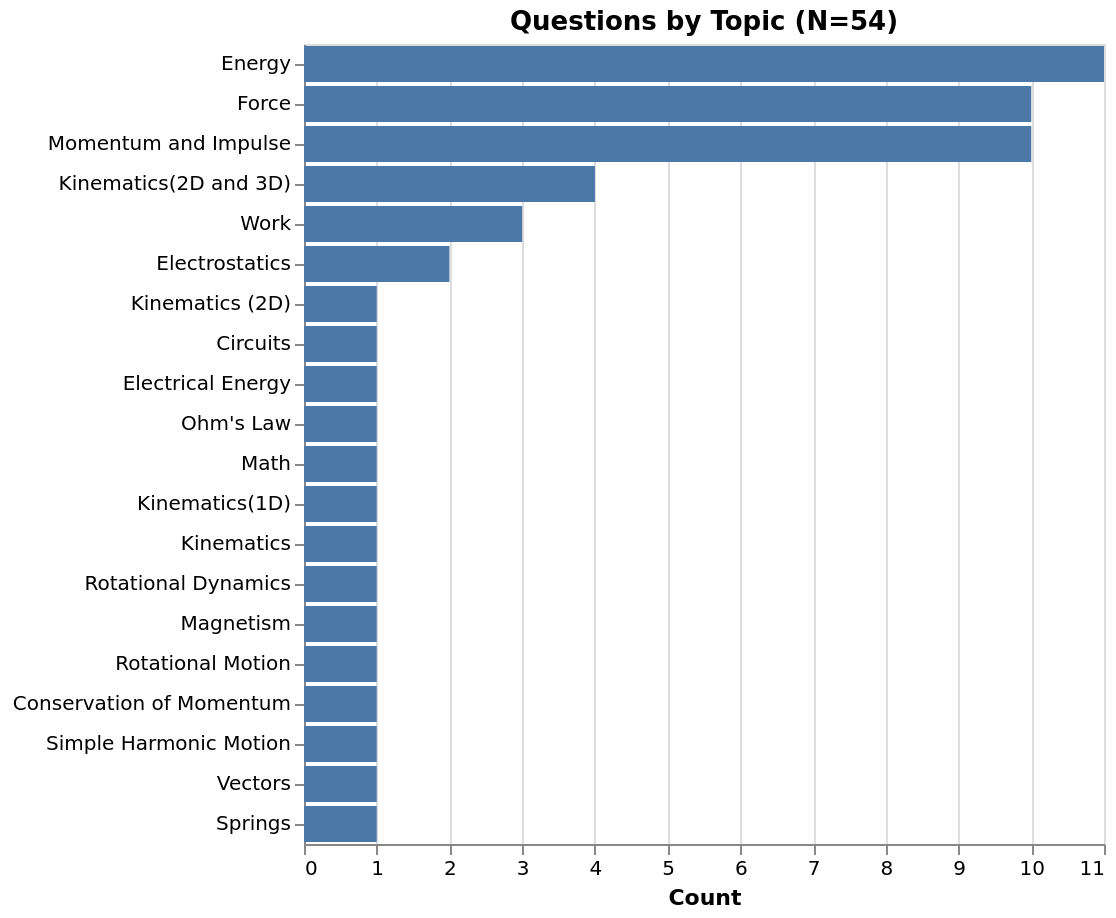
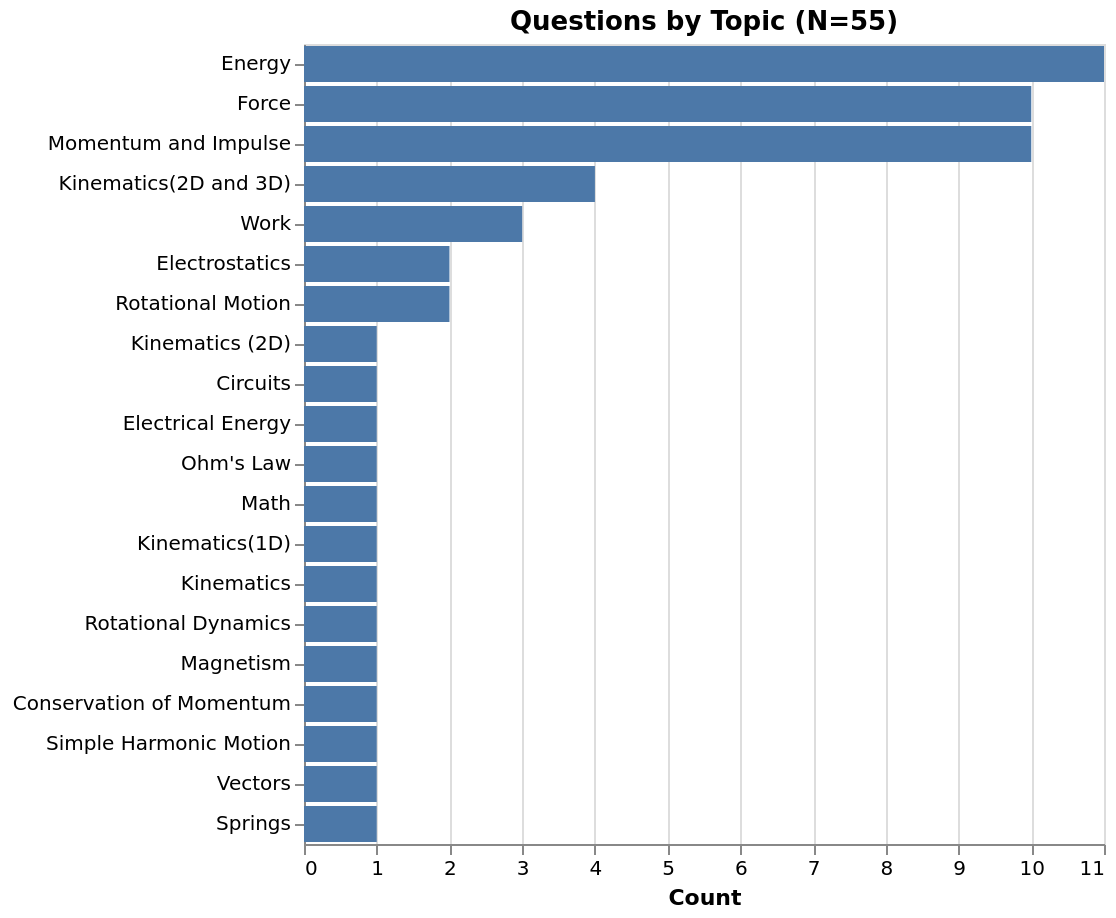
Update TOC via GH Action

diff --git a/content/index.md b/content/index.md
@@ -1,0 +1,60 @@
+# Question Index 
+ 
+ 
+ | Question | Public HTML | Public MD | Instructor MD | PL |
+| --------- | --------- | --------- | --------- | --------- |
+1 |  [Q 1](https://firas.moosvi.com/oer/physicsbank/content/content/public/009.Work/Work/force_and_displacement/force_and_displacement.html)| [Q 1](https://github.com/open-resources/physics_bank/blob/main/content/content/public/009.Work/Work/force_and_displacement/force_and_displacement.md) | [Q 1](https://github.com/open-resources/instructor_physics_bank/blob/main/output/content/instructor/009.Work/Work/force_and_displacement/force_and_displacement.md) | [TBD]() | 
+2 |  [Q 2](https://firas.moosvi.com/oer/physicsbank/content/content/public/009.Work/Power/Energy%20Expenditure/Energy%20Expenditure.html)| [Q 2](https://github.com/open-resources/physics_bank/blob/main/content/content/public/009.Work/Power/Energy%20Expenditure/Energy%20Expenditure.md) | [Q 2](https://github.com/open-resources/instructor_physics_bank/blob/main/output/content/instructor/009.Work/Power/Energy%20Expenditure/Energy%20Expenditure.md) | [TBD]() | 
+3 |  [Q 3](https://firas.moosvi.com/oer/physicsbank/content/content/public/009.Work/Work-Energy%20Theorem/work_frictionless_surface/work_frictionless_surface.html)| [Q 3](https://github.com/open-resources/physics_bank/blob/main/content/content/public/009.Work/Work-Energy%20Theorem/work_frictionless_surface/work_frictionless_surface.md) | [Q 3](https://github.com/open-resources/instructor_physics_bank/blob/main/output/content/instructor/009.Work/Work-Energy%20Theorem/work_frictionless_surface/work_frictionless_surface.md) | [TBD]() | 
+4 |  [Q 4](https://firas.moosvi.com/oer/physicsbank/content/content/public/005.Kinematics%282D%20and%203D%29/Uniform%20Circular%20Motion/centripetal_force/centripetal_force.html)| [Q 4](https://github.com/open-resources/physics_bank/blob/main/content/content/public/005.Kinematics%282D%20and%203D%29/Uniform%20Circular%20Motion/centripetal_force/centripetal_force.md) | [Q 4](https://github.com/open-resources/instructor_physics_bank/blob/main/output/content/instructor/005.Kinematics%282D%20and%203D%29/Uniform%20Circular%20Motion/centripetal_force/centripetal_force.md) | [TBD]() | 
+5 |  [Q 5](https://firas.moosvi.com/oer/physicsbank/content/content/public/005.Kinematics%282D%20and%203D%29/Uniform%20Circular%20Motion/angular_speed/angular_speed.html)| [Q 5](https://github.com/open-resources/physics_bank/blob/main/content/content/public/005.Kinematics%282D%20and%203D%29/Uniform%20Circular%20Motion/angular_speed/angular_speed.md) | [Q 5](https://github.com/open-resources/instructor_physics_bank/blob/main/output/content/instructor/005.Kinematics%282D%20and%203D%29/Uniform%20Circular%20Motion/angular_speed/angular_speed.md) | [TBD]() | 
+6 |  [Q 6](https://firas.moosvi.com/oer/physicsbank/content/content/public/005.Kinematics%282D%20and%203D%29/Non-Uniform%20Circular%20Motion/Acceleration%20around%20a%20turn/Acceleration%20around%20a%20turn.html)| [Q 6](https://github.com/open-resources/physics_bank/blob/main/content/content/public/005.Kinematics%282D%20and%203D%29/Non-Uniform%20Circular%20Motion/Acceleration%20around%20a%20turn/Acceleration%20around%20a%20turn.md) | [Q 6](https://github.com/open-resources/instructor_physics_bank/blob/main/output/content/instructor/005.Kinematics%282D%20and%203D%29/Non-Uniform%20Circular%20Motion/Acceleration%20around%20a%20turn/Acceleration%20around%20a%20turn.md) | [TBD]() | 
+7 |  [Q 7](https://firas.moosvi.com/oer/physicsbank/content/content/public/005.Kinematics%282D%20and%203D%29/Non-Uniform%20Circular%20Motion/Turning_Car/Turning_car.html)| [Q 7](https://github.com/open-resources/physics_bank/blob/main/content/content/public/005.Kinematics%282D%20and%203D%29/Non-Uniform%20Circular%20Motion/Turning_Car/Turning_car.md) | [Q 7](https://github.com/open-resources/instructor_physics_bank/blob/main/output/content/instructor/005.Kinematics%282D%20and%203D%29/Non-Uniform%20Circular%20Motion/Turning_Car/Turning_car.md) | [TBD]() | 
+8 |  [Q 8](https://firas.moosvi.com/oer/physicsbank/content/content/public/005.Kinematics%282D%20and%203D%29/Projectile%20Motion/ski_jump/ski_jump.html)| [Q 8](https://github.com/open-resources/physics_bank/blob/main/content/content/public/005.Kinematics%282D%20and%203D%29/Projectile%20Motion/ski_jump/ski_jump.md) | [Q 8](https://github.com/open-resources/instructor_physics_bank/blob/main/output/content/instructor/005.Kinematics%282D%20and%203D%29/Projectile%20Motion/ski_jump/ski_jump.md) | [TBD]() | 
+9 |  [Q 9](https://firas.moosvi.com/oer/physicsbank/content/content/public/006.Force/Topic%20Outcome/The%20max%20acceleration%20without%20slipping/The%20max%20acceleration%20without%20slipping.html)| [Q 9](https://github.com/open-resources/physics_bank/blob/main/content/content/public/006.Force/Topic%20Outcome/The%20max%20acceleration%20without%20slipping/The%20max%20acceleration%20without%20slipping.md) | [Q 9](https://github.com/open-resources/instructor_physics_bank/blob/main/output/content/instructor/006.Force/Topic%20Outcome/The%20max%20acceleration%20without%20slipping/The%20max%20acceleration%20without%20slipping.md) | [TBD]() | 
+10 |  [Q 10](https://firas.moosvi.com/oer/physicsbank/content/content/public/006.Force/Topic%20Outcome/Elevator%20Movement%20Direction/Elevator%20Movement%20Direction.html)| [Q 10](https://github.com/open-resources/physics_bank/blob/main/content/content/public/006.Force/Topic%20Outcome/Elevator%20Movement%20Direction/Elevator%20Movement%20Direction.md) | [Q 10](https://github.com/open-resources/instructor_physics_bank/blob/main/output/content/instructor/006.Force/Topic%20Outcome/Elevator%20Movement%20Direction/Elevator%20Movement%20Direction.md) | [TBD]() | 
+11 |  [Q 11](https://firas.moosvi.com/oer/physicsbank/content/content/public/006.Force/Topic%20Outcome/velocity_netforce/velocity_netforce.html)| [Q 11](https://github.com/open-resources/physics_bank/blob/main/content/content/public/006.Force/Topic%20Outcome/velocity_netforce/velocity_netforce.md) | [Q 11](https://github.com/open-resources/instructor_physics_bank/blob/main/output/content/instructor/006.Force/Topic%20Outcome/velocity_netforce/velocity_netforce.md) | [TBD]() | 
+12 |  [Q 12](https://firas.moosvi.com/oer/physicsbank/content/content/public/006.Force/Topic%20Outcome/ropes_and_blocks/ropes_and_blocks.html)| [Q 12](https://github.com/open-resources/physics_bank/blob/main/content/content/public/006.Force/Topic%20Outcome/ropes_and_blocks/ropes_and_blocks.md) | [Q 12](https://github.com/open-resources/instructor_physics_bank/blob/main/output/content/instructor/006.Force/Topic%20Outcome/ropes_and_blocks/ropes_and_blocks.md) | [TBD]() | 
+13 |  [Q 13](https://firas.moosvi.com/oer/physicsbank/content/content/public/006.Force/Topic%20Outcome/spring_on_incline/spring_on_incline.html)| [Q 13](https://github.com/open-resources/physics_bank/blob/main/content/content/public/006.Force/Topic%20Outcome/spring_on_incline/spring_on_incline.md) | [Q 13](https://github.com/open-resources/instructor_physics_bank/blob/main/output/content/instructor/006.Force/Topic%20Outcome/spring_on_incline/spring_on_incline.md) | [TBD]() | 
+14 |  [Q 14](https://firas.moosvi.com/oer/physicsbank/content/content/public/006.Force/Topic%20Outcome/Rotating%20ball/Rotating%20ball.html)| [Q 14](https://github.com/open-resources/physics_bank/blob/main/content/content/public/006.Force/Topic%20Outcome/Rotating%20ball/Rotating%20ball.md) | [Q 14](https://github.com/open-resources/instructor_physics_bank/blob/main/output/content/instructor/006.Force/Topic%20Outcome/Rotating%20ball/Rotating%20ball.md) | [TBD]() | 
+15 |  [Q 15](https://firas.moosvi.com/oer/physicsbank/content/content/public/006.Force/Equilibrium/Two%20blocks%20connected%20by%20a%20string/Two%20Blocks%20Connected%20by%20a%20String.html)| [Q 15](https://github.com/open-resources/physics_bank/blob/main/content/content/public/006.Force/Equilibrium/Two%20blocks%20connected%20by%20a%20string/Two%20Blocks%20Connected%20by%20a%20String.md) | [Q 15](https://github.com/open-resources/instructor_physics_bank/blob/main/output/content/instructor/006.Force/Equilibrium/Two%20blocks%20connected%20by%20a%20string/Two%20Blocks%20Connected%20by%20a%20String.md) | [TBD]() | 
+16 |  [Q 16](https://firas.moosvi.com/oer/physicsbank/content/content/public/006.Force/Dynamics%20of%20Circular%20Motion/object_on_string/object_on_string.html)| [Q 16](https://github.com/open-resources/physics_bank/blob/main/content/content/public/006.Force/Dynamics%20of%20Circular%20Motion/object_on_string/object_on_string.md) | [Q 16](https://github.com/open-resources/instructor_physics_bank/blob/main/output/content/instructor/006.Force/Dynamics%20of%20Circular%20Motion/object_on_string/object_on_string.md) | [TBD]() | 
+17 |  [Q 17](https://firas.moosvi.com/oer/physicsbank/content/content/public/006.Force/Friction/Frictional%20Force%20between%20tires%20and%20road/Frictional%20Force%20between%20tires%20and%20road.html)| [Q 17](https://github.com/open-resources/physics_bank/blob/main/content/content/public/006.Force/Friction/Frictional%20Force%20between%20tires%20and%20road/Frictional%20Force%20between%20tires%20and%20road.md) | [Q 17](https://github.com/open-resources/instructor_physics_bank/blob/main/output/content/instructor/006.Force/Friction/Frictional%20Force%20between%20tires%20and%20road/Frictional%20Force%20between%20tires%20and%20road.md) | [TBD]() | 
+18 |  [Q 18](https://firas.moosvi.com/oer/physicsbank/content/content/public/006.Force/Springs/Bungee_jumping/bungee_jumping.html)| [Q 18](https://github.com/open-resources/physics_bank/blob/main/content/content/public/006.Force/Springs/Bungee_jumping/bungee_jumping.md) | [Q 18](https://github.com/open-resources/instructor_physics_bank/blob/main/output/content/instructor/006.Force/Springs/Bungee_jumping/bungee_jumping.md) | [TBD]() | 
+19 |  [Q 19](https://firas.moosvi.com/oer/physicsbank/content/content/public/006.Force/Newton%27s%20Third%20Law/Force%20Vectors/force_vectors.html)| [Q 19](https://github.com/open-resources/physics_bank/blob/main/content/content/public/006.Force/Newton%27s%20Third%20Law/Force%20Vectors/force_vectors.md) | [Q 19](https://github.com/open-resources/instructor_physics_bank/blob/main/output/content/instructor/006.Force/Newton%27s%20Third%20Law/Force%20Vectors/force_vectors.md) | [TBD]() | 
+20 |  [Q 20](https://firas.moosvi.com/oer/physicsbank/content/content/public/021.Circuits/RC%20Circuits/OSUPv2p10_16/OSUPv2p10_16.html)| [Q 20](https://github.com/open-resources/physics_bank/blob/main/content/content/public/021.Circuits/RC%20Circuits/OSUPv2p10_16/OSUPv2p10_16.md) | [Q 20](https://github.com/open-resources/instructor_physics_bank/blob/main/output/content/instructor/021.Circuits/RC%20Circuits/OSUPv2p10_16/OSUPv2p10_16.md) | [TBD]() | 
+21 |  [Q 21](https://firas.moosvi.com/oer/physicsbank/content/content/public/021.Circuits/Current/OSUPv2.9.2/OSUPv2.9.2.html)| [Q 21](https://github.com/open-resources/physics_bank/blob/main/content/content/public/021.Circuits/Current/OSUPv2.9.2/OSUPv2.9.2.md) | [Q 21](https://github.com/open-resources/instructor_physics_bank/blob/main/output/content/instructor/021.Circuits/Current/OSUPv2.9.2/OSUPv2.9.2.md) | [TBD]() | 
+22 |  [Q 22](https://firas.moosvi.com/oer/physicsbank/content/content/public/021.Circuits/Electrical%20Energy/OSUPv2.9.16/OSUPv2.9.16.html)| [Q 22](https://github.com/open-resources/physics_bank/blob/main/content/content/public/021.Circuits/Electrical%20Energy/OSUPv2.9.16/OSUPv2.9.16.md) | [Q 22](https://github.com/open-resources/instructor_physics_bank/blob/main/output/content/instructor/021.Circuits/Electrical%20Energy/OSUPv2.9.16/OSUPv2.9.16.md) | [TBD]() | 
+23 |  [Q 23](https://firas.moosvi.com/oer/physicsbank/content/content/public/021.Circuits/Ohm%27s%20Law/OSUPv2.9.13/OSUPv2.9.13.html)| [Q 23](https://github.com/open-resources/physics_bank/blob/main/content/content/public/021.Circuits/Ohm%27s%20Law/OSUPv2.9.13/OSUPv2.9.13.md) | [Q 23](https://github.com/open-resources/instructor_physics_bank/blob/main/output/content/instructor/021.Circuits/Ohm%27s%20Law/OSUPv2.9.13/OSUPv2.9.13.md) | [TBD]() | 
+24 |  [Q 24](https://firas.moosvi.com/oer/physicsbank/content/content/public/001.Math/Integrals/Rocket/Rocket.html)| [Q 24](https://github.com/open-resources/physics_bank/blob/main/content/content/public/001.Math/Integrals/Rocket/Rocket.md) | [Q 24](https://github.com/open-resources/instructor_physics_bank/blob/main/output/content/instructor/001.Math/Integrals/Rocket/Rocket.md) | [TBD]() | 
+25 |  [Q 25](https://firas.moosvi.com/oer/physicsbank/content/content/public/004.Kinematics%281D%29/Motion%20Diagrams/Running_Dog/Running_Dog.html)| [Q 25](https://github.com/open-resources/physics_bank/blob/main/content/content/public/004.Kinematics%281D%29/Motion%20Diagrams/Running_Dog/Running_Dog.md) | [Q 25](https://github.com/open-resources/instructor_physics_bank/blob/main/output/content/instructor/004.Kinematics%281D%29/Motion%20Diagrams/Running_Dog/Running_Dog.md) | [TBD]() | 
+26 |  [Q 26](https://firas.moosvi.com/oer/physicsbank/content/content/public/004.Kinematics%281D%29/Position/distance_travelled/distance_travelled.html)| [Q 26](https://github.com/open-resources/physics_bank/blob/main/content/content/public/004.Kinematics%281D%29/Position/distance_travelled/distance_travelled.md) | [Q 26](https://github.com/open-resources/instructor_physics_bank/blob/main/output/content/instructor/004.Kinematics%281D%29/Position/distance_travelled/distance_travelled.md) | [TBD]() | 
+27 |  [Q 27](https://firas.moosvi.com/oer/physicsbank/content/content/public/018.Electrostatics/Electric%20Potential/Particle%20between%20charged%20plates/Particle%20between%20charged%20plates.html)| [Q 27](https://github.com/open-resources/physics_bank/blob/main/content/content/public/018.Electrostatics/Electric%20Potential/Particle%20between%20charged%20plates/Particle%20between%20charged%20plates.md) | [Q 27](https://github.com/open-resources/instructor_physics_bank/blob/main/output/content/instructor/018.Electrostatics/Electric%20Potential/Particle%20between%20charged%20plates/Particle%20between%20charged%20plates.md) | [TBD]() | 
+28 |  [Q 28](https://firas.moosvi.com/oer/physicsbank/content/content/public/011.Rotational%20Dynamics/Topic%20Outcome/thread_on_spool/thread_on_spool.html)| [Q 28](https://github.com/open-resources/physics_bank/blob/main/content/content/public/011.Rotational%20Dynamics/Topic%20Outcome/thread_on_spool/thread_on_spool.md) | [Q 28](https://github.com/open-resources/instructor_physics_bank/blob/main/output/content/instructor/011.Rotational%20Dynamics/Topic%20Outcome/thread_on_spool/thread_on_spool.md) | [TBD]() | 
+29 |  [Q 29](https://firas.moosvi.com/oer/physicsbank/content/content/public/008.Energy/Exploding_Asteroid/Exploding_Asteroid.html)| [Q 29](https://github.com/open-resources/physics_bank/blob/main/content/content/public/008.Energy/Exploding_Asteroid/Exploding_Asteroid.md) | [Q 29](https://github.com/open-resources/instructor_physics_bank/blob/main/output/content/instructor/008.Energy/Exploding_Asteroid/Exploding_Asteroid.md) | [TBD]() | 
+30 |  [Q 30](https://firas.moosvi.com/oer/physicsbank/content/content/public/008.Energy/Kinetic%20Energy/KE_energy_momentum/KE_energy_momentum.html)| [Q 30](https://github.com/open-resources/physics_bank/blob/main/content/content/public/008.Energy/Kinetic%20Energy/KE_energy_momentum/KE_energy_momentum.md) | [Q 30](https://github.com/open-resources/instructor_physics_bank/blob/main/output/content/instructor/008.Energy/Kinetic%20Energy/KE_energy_momentum/KE_energy_momentum.md) | [TBD]() | 
+31 |  [Q 31](https://firas.moosvi.com/oer/physicsbank/content/content/public/008.Energy/Kinetic%20Energy/KE_testmass/KE_testmass.html)| [Q 31](https://github.com/open-resources/physics_bank/blob/main/content/content/public/008.Energy/Kinetic%20Energy/KE_testmass/KE_testmass.md) | [Q 31](https://github.com/open-resources/instructor_physics_bank/blob/main/output/content/instructor/008.Energy/Kinetic%20Energy/KE_testmass/KE_testmass.md) | [TBD]() | 
+32 |  [Q 32](https://firas.moosvi.com/oer/physicsbank/content/content/public/008.Energy/Topic%20Outcome/frictionless_track/frictionless_track.html)| [Q 32](https://github.com/open-resources/physics_bank/blob/main/content/content/public/008.Energy/Topic%20Outcome/frictionless_track/frictionless_track.md) | [Q 32](https://github.com/open-resources/instructor_physics_bank/blob/main/output/content/instructor/008.Energy/Topic%20Outcome/frictionless_track/frictionless_track.md) | [TBD]() | 
+33 |  [Q 33](https://firas.moosvi.com/oer/physicsbank/content/content/public/008.Energy/Topic%20Outcome/spring_oscillations/spring_oscillations.html)| [Q 33](https://github.com/open-resources/physics_bank/blob/main/content/content/public/008.Energy/Topic%20Outcome/spring_oscillations/spring_oscillations.md) | [Q 33](https://github.com/open-resources/instructor_physics_bank/blob/main/output/content/instructor/008.Energy/Topic%20Outcome/spring_oscillations/spring_oscillations.md) | [TBD]() | 
+34 |  [Q 34](https://firas.moosvi.com/oer/physicsbank/content/content/public/008.Energy/Conservation%20of%20Energy/Cut%20The%20Rope/Cut%20The%20Rope.html)| [Q 34](https://github.com/open-resources/physics_bank/blob/main/content/content/public/008.Energy/Conservation%20of%20Energy/Cut%20The%20Rope/Cut%20The%20Rope.md) | [Q 34](https://github.com/open-resources/instructor_physics_bank/blob/main/output/content/instructor/008.Energy/Conservation%20of%20Energy/Cut%20The%20Rope/Cut%20The%20Rope.md) | [TBD]() | 
+35 |  [Q 35](https://firas.moosvi.com/oer/physicsbank/content/content/public/008.Energy/Conservation%20of%20Energy/Energy%20lost%20to%20air%20friction/energy_lost_air_friction.html)| [Q 35](https://github.com/open-resources/physics_bank/blob/main/content/content/public/008.Energy/Conservation%20of%20Energy/Energy%20lost%20to%20air%20friction/energy_lost_air_friction.md) | [Q 35](https://github.com/open-resources/instructor_physics_bank/blob/main/output/content/instructor/008.Energy/Conservation%20of%20Energy/Energy%20lost%20to%20air%20friction/energy_lost_air_friction.md) | [TBD]() | 
+36 |  [Q 36](https://firas.moosvi.com/oer/physicsbank/content/content/public/008.Energy/Conservation%20of%20Energy/ball_race/2012Final_q3.html)| [Q 36](https://github.com/open-resources/physics_bank/blob/main/content/content/public/008.Energy/Conservation%20of%20Energy/ball_race/2012Final_q3.md) | [Q 36](https://github.com/open-resources/instructor_physics_bank/blob/main/output/content/instructor/008.Energy/Conservation%20of%20Energy/ball_race/2012Final_q3.md) | [TBD]() | 
+37 |  [Q 37](https://firas.moosvi.com/oer/physicsbank/content/content/public/008.Energy/Conservation%20of%20Energy/Physics%20of%20Roller%20Coasters/Physics%20of%20Roller%20Coasters.html)| [Q 37](https://github.com/open-resources/physics_bank/blob/main/content/content/public/008.Energy/Conservation%20of%20Energy/Physics%20of%20Roller%20Coasters/Physics%20of%20Roller%20Coasters.md) | [Q 37](https://github.com/open-resources/instructor_physics_bank/blob/main/output/content/instructor/008.Energy/Conservation%20of%20Energy/Physics%20of%20Roller%20Coasters/Physics%20of%20Roller%20Coasters.md) | [TBD]() | 
+38 |  [Q 38](https://firas.moosvi.com/oer/physicsbank/content/content/public/008.Energy/Conservation%20of%20Energy/dissipative_process/dissipative_process.html)| [Q 38](https://github.com/open-resources/physics_bank/blob/main/content/content/public/008.Energy/Conservation%20of%20Energy/dissipative_process/dissipative_process.md) | [Q 38](https://github.com/open-resources/instructor_physics_bank/blob/main/output/content/instructor/008.Energy/Conservation%20of%20Energy/dissipative_process/dissipative_process.md) | [TBD]() | 
+39 |  [Q 39](https://firas.moosvi.com/oer/physicsbank/content/content/public/019.Magnetism/Magnetic%20Force/Electron%20in%20a%20Solenoid/Electron%20in%20a%20Solenoid.html)| [Q 39](https://github.com/open-resources/physics_bank/blob/main/content/content/public/019.Magnetism/Magnetic%20Force/Electron%20in%20a%20Solenoid/Electron%20in%20a%20Solenoid.md) | [Q 39](https://github.com/open-resources/instructor_physics_bank/blob/main/output/content/instructor/019.Magnetism/Magnetic%20Force/Electron%20in%20a%20Solenoid/Electron%20in%20a%20Solenoid.md) | [TBD]() | 
+40 |  [Q 40](https://firas.moosvi.com/oer/physicsbank/content/content/public/010.Rotational%20Motion/Rotational%20Energy/Inertia%20of%20T-shaped%20rod/Inertia%20of%20T-shaped%20rod.html)| [Q 40](https://github.com/open-resources/physics_bank/blob/main/content/content/public/010.Rotational%20Motion/Rotational%20Energy/Inertia%20of%20T-shaped%20rod/Inertia%20of%20T-shaped%20rod.md) | [Q 40](https://github.com/open-resources/instructor_physics_bank/blob/main/output/content/instructor/010.Rotational%20Motion/Rotational%20Energy/Inertia%20of%20T-shaped%20rod/Inertia%20of%20T-shaped%20rod.md) | [TBD]() | 
+41 |  [Q 41](https://firas.moosvi.com/oer/physicsbank/content/content/public/010.Rotational%20Motion/Topic%20Outcome/Wheel_of_fortune/Wheel_of_fortune.html)| [Q 41](https://github.com/open-resources/physics_bank/blob/main/content/content/public/010.Rotational%20Motion/Topic%20Outcome/Wheel_of_fortune/Wheel_of_fortune.md) | [Q 41](https://github.com/open-resources/instructor_physics_bank/blob/main/output/content/instructor/010.Rotational%20Motion/Topic%20Outcome/Wheel_of_fortune/Wheel_of_fortune.md) | [TBD]() | 
+42 |  [Q 42](https://firas.moosvi.com/oer/physicsbank/content/content/public/007.Momentum%20and%20Impulse/2D%20Collisions/light_heavy_collision/light_heavy_collision.html)| [Q 42](https://github.com/open-resources/physics_bank/blob/main/content/content/public/007.Momentum%20and%20Impulse/2D%20Collisions/light_heavy_collision/light_heavy_collision.md) | [Q 42](https://github.com/open-resources/instructor_physics_bank/blob/main/output/content/instructor/007.Momentum%20and%20Impulse/2D%20Collisions/light_heavy_collision/light_heavy_collision.md) | [TBD]() | 
+43 |  [Q 43](https://firas.moosvi.com/oer/physicsbank/content/content/public/007.Momentum%20and%20Impulse/2D%20Collisions/billiards_collision/billiards_collision.html)| [Q 43](https://github.com/open-resources/physics_bank/blob/main/content/content/public/007.Momentum%20and%20Impulse/2D%20Collisions/billiards_collision/billiards_collision.md) | [Q 43](https://github.com/open-resources/instructor_physics_bank/blob/main/output/content/instructor/007.Momentum%20and%20Impulse/2D%20Collisions/billiards_collision/billiards_collision.md) | [TBD]() | 
+44 |  [Q 44](https://firas.moosvi.com/oer/physicsbank/content/content/public/007.Momentum%20and%20Impulse/Conservation%20of%20Momentum/Raindrops_Collision/raindrops_collision.html)| [Q 44](https://github.com/open-resources/physics_bank/blob/main/content/content/public/007.Momentum%20and%20Impulse/Conservation%20of%20Momentum/Raindrops_Collision/raindrops_collision.md) | [Q 44](https://github.com/open-resources/instructor_physics_bank/blob/main/output/content/instructor/007.Momentum%20and%20Impulse/Conservation%20of%20Momentum/Raindrops_Collision/raindrops_collision.md) | [TBD]() | 
+45 |  [Q 45](https://firas.moosvi.com/oer/physicsbank/content/content/public/007.Momentum%20and%20Impulse/Conservation%20of%20Momentum/Isolated_systems/Isolated_systems.html)| [Q 45](https://github.com/open-resources/physics_bank/blob/main/content/content/public/007.Momentum%20and%20Impulse/Conservation%20of%20Momentum/Isolated_systems/Isolated_systems.md) | [Q 45](https://github.com/open-resources/instructor_physics_bank/blob/main/output/content/instructor/007.Momentum%20and%20Impulse/Conservation%20of%20Momentum/Isolated_systems/Isolated_systems.md) | [TBD]() | 
+46 |  [Q 46](https://firas.moosvi.com/oer/physicsbank/content/content/public/007.Momentum%20and%20Impulse/Conservation%20of%20Momentum/Explosions_and_Velocity/Explosions_and_Velocity.html)| [Q 46](https://github.com/open-resources/physics_bank/blob/main/content/content/public/007.Momentum%20and%20Impulse/Conservation%20of%20Momentum/Explosions_and_Velocity/Explosions_and_Velocity.md) | [Q 46](https://github.com/open-resources/instructor_physics_bank/blob/main/output/content/instructor/007.Momentum%20and%20Impulse/Conservation%20of%20Momentum/Explosions_and_Velocity/Explosions_and_Velocity.md) | [TBD]() | 
+47 |  [Q 47](https://firas.moosvi.com/oer/physicsbank/content/content/public/007.Momentum%20and%20Impulse/Conservation%20of%20Momentum/mass_spring_collision/mass_spring_collision.html)| [Q 47](https://github.com/open-resources/physics_bank/blob/main/content/content/public/007.Momentum%20and%20Impulse/Conservation%20of%20Momentum/mass_spring_collision/mass_spring_collision.md) | [Q 47](https://github.com/open-resources/instructor_physics_bank/blob/main/output/content/instructor/007.Momentum%20and%20Impulse/Conservation%20of%20Momentum/mass_spring_collision/mass_spring_collision.md) | [TBD]() | 
+48 |  [Q 48](https://firas.moosvi.com/oer/physicsbank/content/content/public/007.Momentum%20and%20Impulse/Conservation%20of%20Momentum/System_Open_or_Closed/System_Open_or_Closed.html)| [Q 48](https://github.com/open-resources/physics_bank/blob/main/content/content/public/007.Momentum%20and%20Impulse/Conservation%20of%20Momentum/System_Open_or_Closed/System_Open_or_Closed.md) | [Q 48](https://github.com/open-resources/instructor_physics_bank/blob/main/output/content/instructor/007.Momentum%20and%20Impulse/Conservation%20of%20Momentum/System_Open_or_Closed/System_Open_or_Closed.md) | [TBD]() | 
+49 |  [Q 49](https://firas.moosvi.com/oer/physicsbank/content/content/public/007.Momentum%20and%20Impulse/Impulse/airbag_collision/airbag_collision.html)| [Q 49](https://github.com/open-resources/physics_bank/blob/main/content/content/public/007.Momentum%20and%20Impulse/Impulse/airbag_collision/airbag_collision.md) | [Q 49](https://github.com/open-resources/instructor_physics_bank/blob/main/output/content/instructor/007.Momentum%20and%20Impulse/Impulse/airbag_collision/airbag_collision.md) | [TBD]() | 
+50 |  [Q 50](https://firas.moosvi.com/oer/physicsbank/content/content/public/007.Momentum%20and%20Impulse/Impulse/Bouncing_Ball/Bouncing_Ball.html)| [Q 50](https://github.com/open-resources/physics_bank/blob/main/content/content/public/007.Momentum%20and%20Impulse/Impulse/Bouncing_Ball/Bouncing_Ball.md) | [Q 50](https://github.com/open-resources/instructor_physics_bank/blob/main/output/content/instructor/007.Momentum%20and%20Impulse/Impulse/Bouncing_Ball/Bouncing_Ball.md) | [TBD]() | 
+51 |  [Q 51](https://firas.moosvi.com/oer/physicsbank/content/content/public/007.Momentum%20and%20Impulse/Momentum/Dinner_Plate/dinner_plate.html)| [Q 51](https://github.com/open-resources/physics_bank/blob/main/content/content/public/007.Momentum%20and%20Impulse/Momentum/Dinner_Plate/dinner_plate.md) | [Q 51](https://github.com/open-resources/instructor_physics_bank/blob/main/output/content/instructor/007.Momentum%20and%20Impulse/Momentum/Dinner_Plate/dinner_plate.md) | [TBD]() | 
+52 |  [Q 52](https://firas.moosvi.com/oer/physicsbank/content/content/public/007.Momentum%20and%20Impulse/Momentum/Momentum_and_Inertia/Momentum_and_Inertia.html)| [Q 52](https://github.com/open-resources/physics_bank/blob/main/content/content/public/007.Momentum%20and%20Impulse/Momentum/Momentum_and_Inertia/Momentum_and_Inertia.md) | [Q 52](https://github.com/open-resources/instructor_physics_bank/blob/main/output/content/instructor/007.Momentum%20and%20Impulse/Momentum/Momentum_and_Inertia/Momentum_and_Inertia.md) | [TBD]() | 
+53 |  [Q 53](https://firas.moosvi.com/oer/physicsbank/content/content/public/007.Momentum%20and%20Impulse/Momentum/Rock_Powered_Rocket/Rock_Powered_Rocket.html)| [Q 53](https://github.com/open-resources/physics_bank/blob/main/content/content/public/007.Momentum%20and%20Impulse/Momentum/Rock_Powered_Rocket/Rock_Powered_Rocket.md) | [Q 53](https://github.com/open-resources/instructor_physics_bank/blob/main/output/content/instructor/007.Momentum%20and%20Impulse/Momentum/Rock_Powered_Rocket/Rock_Powered_Rocket.md) | [TBD]() | 
+54 |  [Q 54](https://firas.moosvi.com/oer/physicsbank/content/content/public/003.Vectors/Topic%20Outcome/Choose_all_Vectors_Scalars/Choose_all_Vectors_Scalars.html)| [Q 54](https://github.com/open-resources/physics_bank/blob/main/content/content/public/003.Vectors/Topic%20Outcome/Choose_all_Vectors_Scalars/Choose_all_Vectors_Scalars.md) | [Q 54](https://github.com/open-resources/instructor_physics_bank/blob/main/output/content/instructor/003.Vectors/Topic%20Outcome/Choose_all_Vectors_Scalars/Choose_all_Vectors_Scalars.md) | [TBD]() | 
+55 |  [Q 55](https://firas.moosvi.com/oer/physicsbank/content/content/public/014.Elasticity/Topic%20Outcome/Identical%20Mass-Springs%20with%20different%20Displacement/Identical%20Mass-Springs%20with%20different%20Displacement.html)| [Q 55](https://github.com/open-resources/physics_bank/blob/main/content/content/public/014.Elasticity/Topic%20Outcome/Identical%20Mass-Springs%20with%20different%20Displacement/Identical%20Mass-Springs%20with%20different%20Displacement.md) | [Q 55](https://github.com/open-resources/instructor_physics_bank/blob/main/output/content/instructor/014.Elasticity/Topic%20Outcome/Identical%20Mass-Springs%20with%20different%20Displacement/Identical%20Mass-Springs%20with%20different%20Displacement.md) | [TBD]() | 
